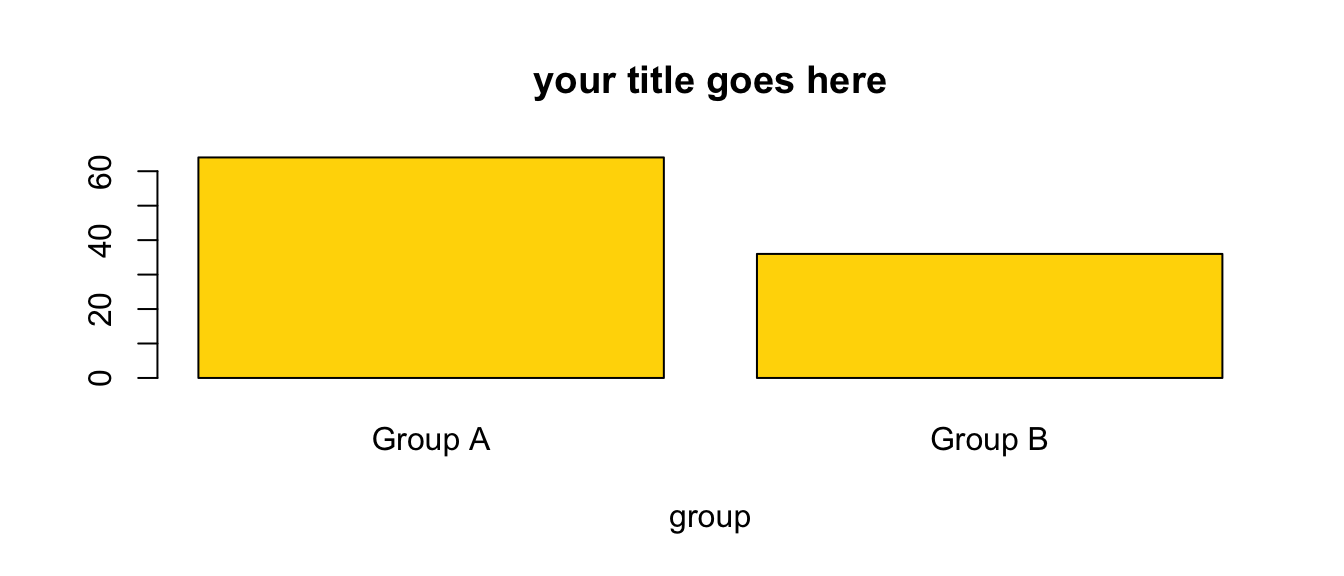
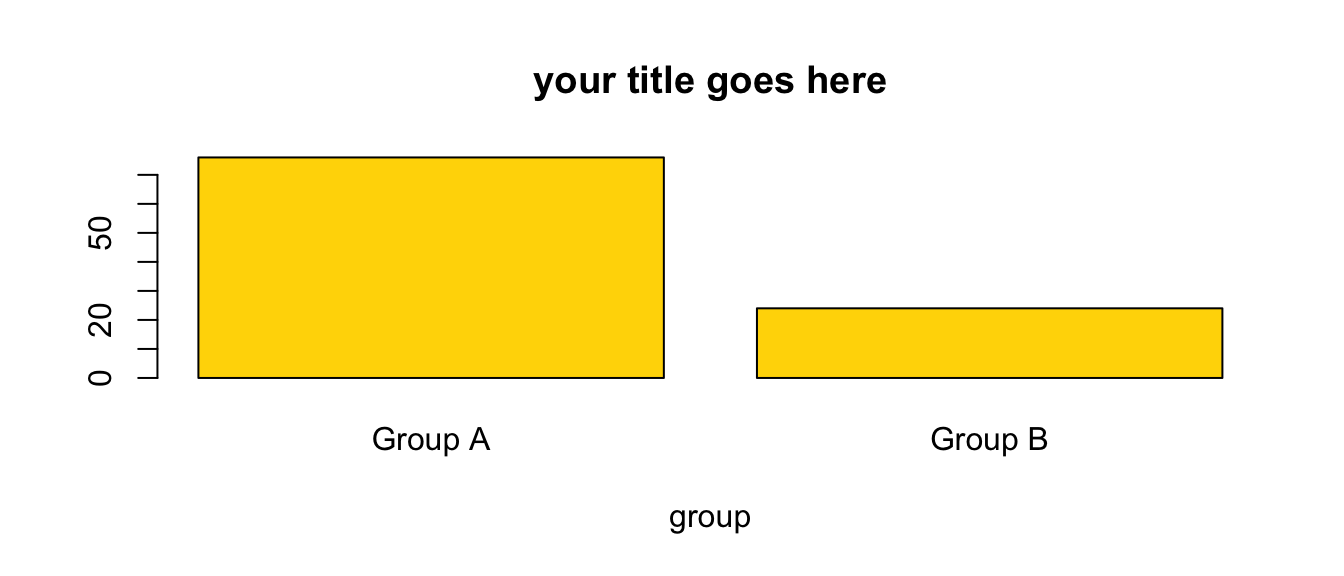
rebuild

diff --git a/docs/quick-intro-R.html b/docs/quick-intro-R.html
@@ -440,13 +440,13 @@ Tip
 <div class="sourceCode cell-code" id="cb7"><pre class="sourceCode r code-with-copy"><code class="sourceCode r"><span id="cb7-1"><a href="#cb7-1" aria-hidden="true" tabindex="-1"></a><span class="fu">summary</span>(mydata<span class="sc">$</span>x) <span class="co"># for continuous or factor variables</span></span></code><button title="Copy to Clipboard" class="code-copy-button"><i class="bi"></i></button></pre></div>
 <div class="cell-output cell-output-stdout">
 <pre><code>   Min. 1st Qu.  Median    Mean 3rd Qu.    Max. 
-  79.63   93.66  100.29   99.51  106.28  121.59 </code></pre>
+  69.28   92.33  100.01   99.93  105.76  127.62 </code></pre>
 </div>
 <div class="sourceCode cell-code" id="cb9"><pre class="sourceCode r code-with-copy"><code class="sourceCode r"><span id="cb9-1"><a href="#cb9-1" aria-hidden="true" tabindex="-1"></a><span class="fu">table</span>(mydata<span class="sc">$</span>z) <span class="co"># especially suitable for factor variables</span></span></code><button title="Copy to Clipboard" class="code-copy-button"><i class="bi"></i></button></pre></div>
 <div class="cell-output cell-output-stdout">
 <pre><code>
  1  2 
-64 36 </code></pre>
+76 24 </code></pre>
 </div>
 </div>
 <p>For another approach to summarizing your data, try:</p>
